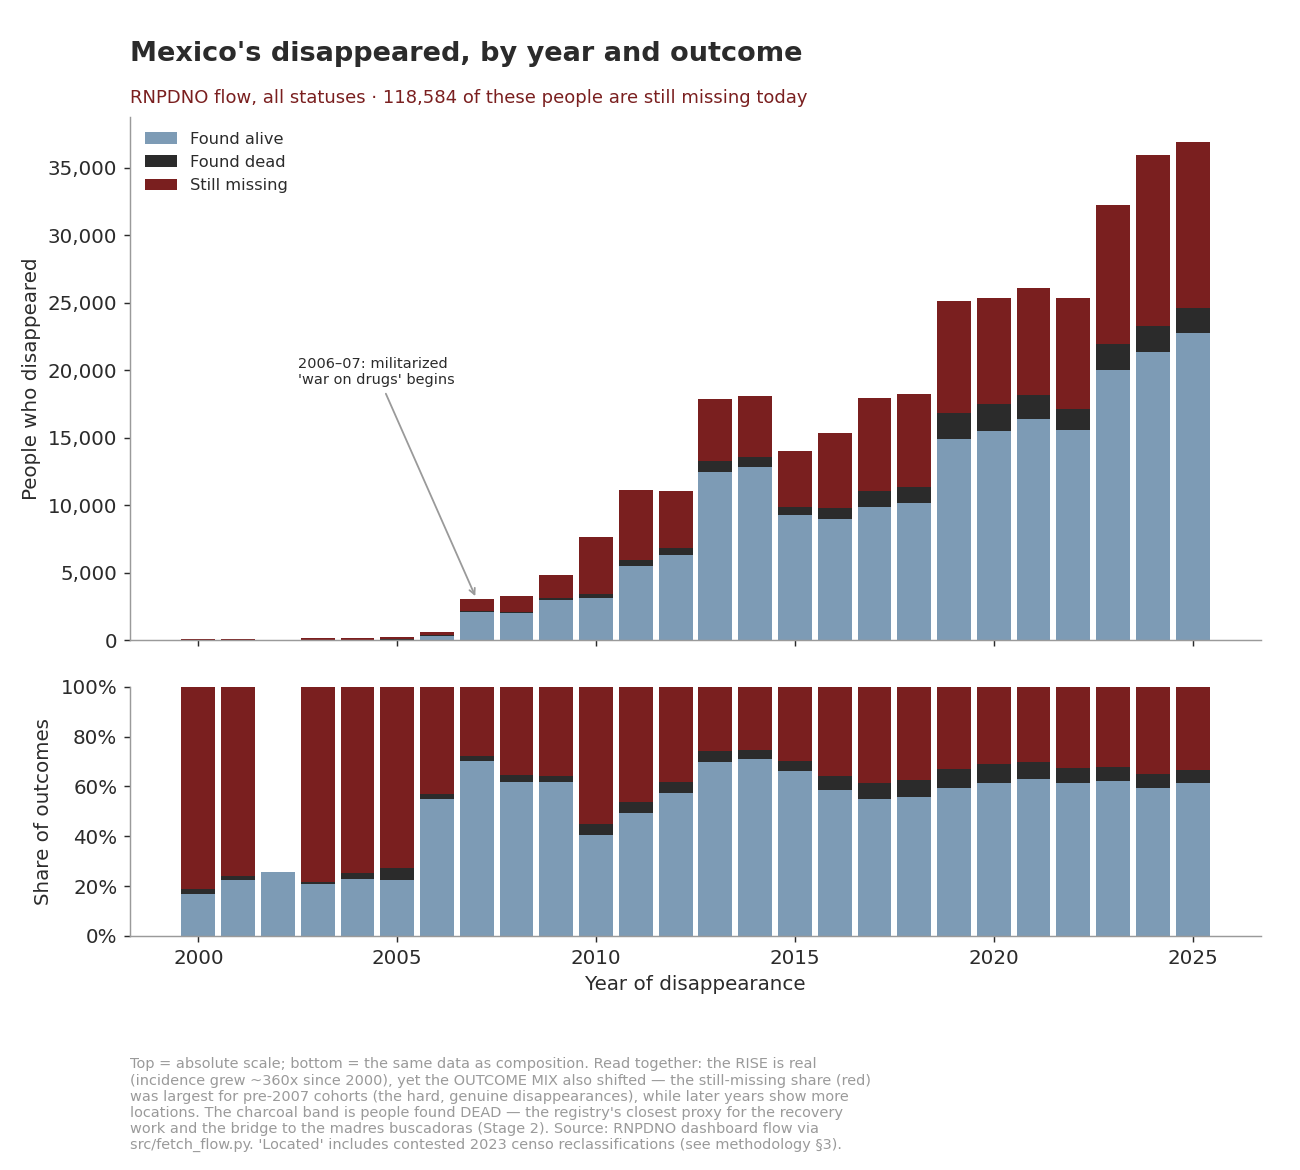
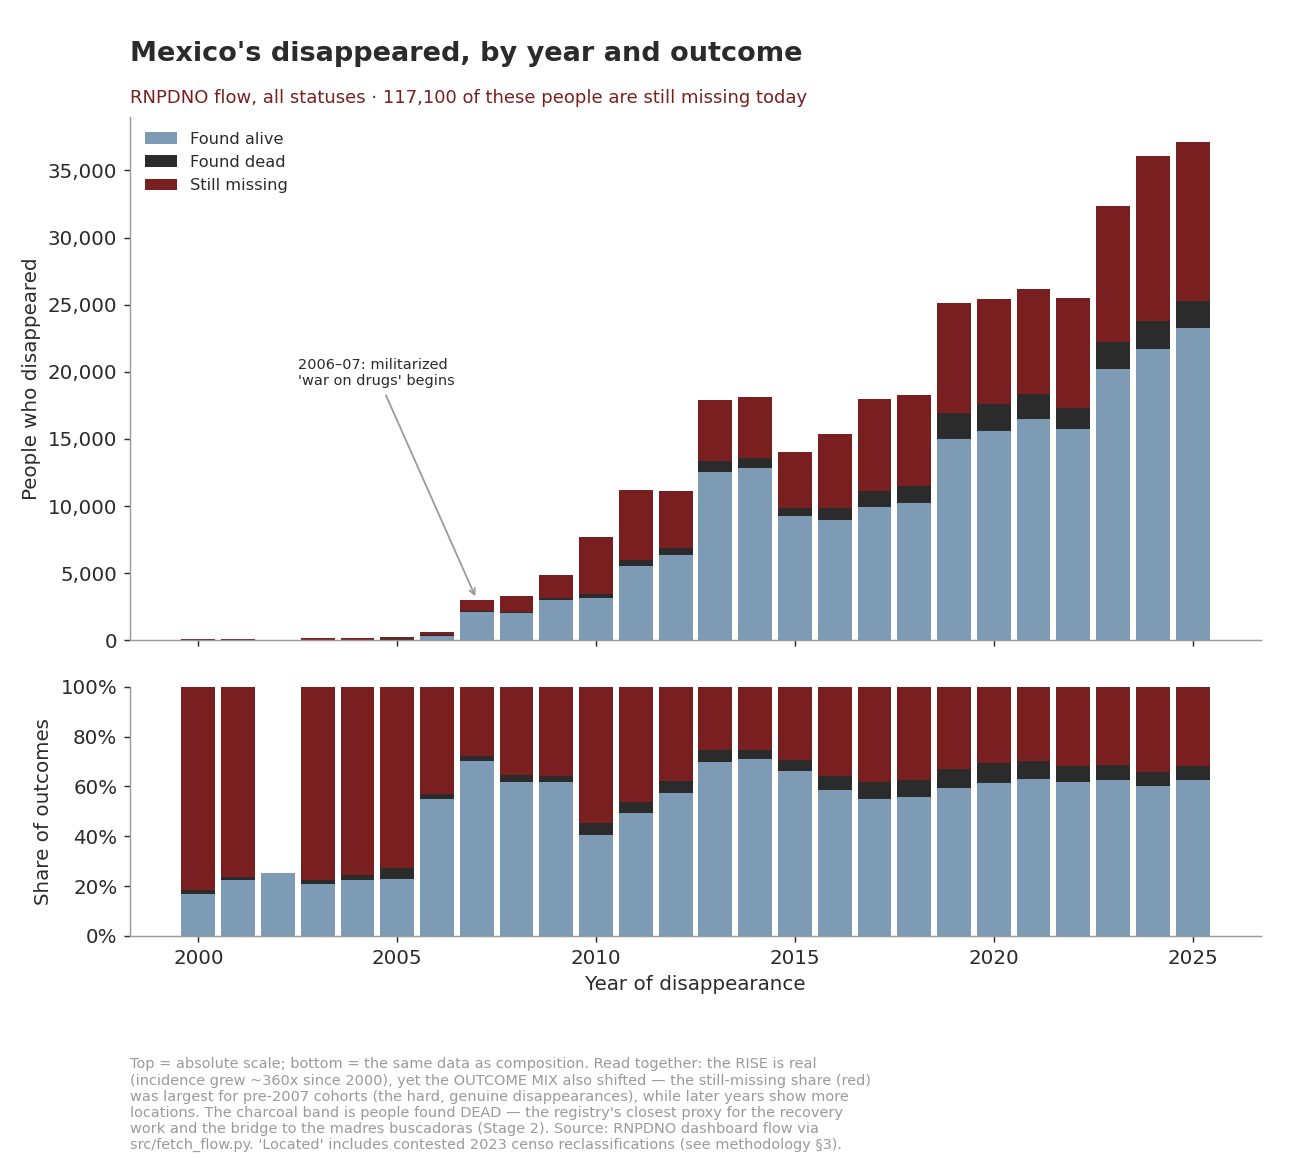
Pre-publication data refresh: live API re-pull + number-by-number diff
Re-pulled every input behind the article draft and diffed all cited figures
against the 2026-06-19 pull / 2025-12-02 microdata snapshot.

Findings (full audit in docs/data-refresh-2026-08-15.md):
- The lapanquecita mirror is FROZEN at 2025-12-02 (last upstream push; monthly
  cadence since Apr 2025 stopped and has not resumed). Local data.csv is
  byte-identical to pinned commit 666b3e7605, so the record-level snapshot we
  hold is the freshest that exists. Stock figures cannot be made fresher.
- Live API refreshed fine: still missing 135,092 -> 134,268; found dead
  22,621 -> 23,483 (+3.8%).
- Fig A window (2000-2025): alive 212,876 -> 214,643, dead 19,920 -> 20,551,
  missing 118,584 -> 117,100.
- All microdata-derived numbers reproduced EXACTLY (133,566 records, 36.8%
  redaction, Jalisco 66.9%, Guerrero 9.1%, Tamaulipas 359.1, the 77%-of-net-
  growth claim). Figs B/C/D/E/G/H rebuilt byte-identical.
- NEW: Ciudad de México shows a second Jalisco-style reversal — climbed
  6,025 -> 7,242 through 2025, then fell to 5,915 by Aug 2026 (-1,327, -18%).
  Not a label-matching artifact. Generalizes the batch-rewriting claim.
- Jalisco rebounding post-recount: 12,776 -> 12,964.

Draft edits:
- §1 caption + body: refreshed band totals, consultation date 2026-08-15.
- §2 caption: labelled to its 2025-12-02 vintage and flagged the CDMX
  divergence, rather than swapping in a live number the map does not show.
[…]

diff --git a/src/jalisco_divergence.py b/src/jalisco_divergence.py
@@ -8,8 +8,10 @@ measured series. Sources (all consulted 2026-07-06):
 - SISOVID (state) 13,976 at 2023-03-31: El Informador 2023-05-09.
 - REPD 15,426 at 2025-02-28 vs RNPDNO 15,015 at 2025-03-13: SinEmbargo / press.
 - REPD 16,064 through end 2025: Grupo Animal (ex Animal Político) verification.
-- RNPDNO 12,776 unresolved at 2026-06-19: our own dashboard-API pull
-  (data/processed/flow_by_state.csv, desap_y_nollocal).
+- RNPDNO 12,776 unresolved at 2026-06-19 and 12,964 at 2026-08-15: our own
+  dashboard-API pulls (data/processed/flow_by_state.csv, desap_y_nollocal).
+  The two federal pulls bracket the post-recount trough: the count is edging
+  back up (+188 in ~8 weeks) while the state registry stays ~3,000 higher.
 Events: CNB oficio 1349/2020 p.11 n.3; Informador/Animal Político (2022 stop);
 Data Cívica (Dec 2023 censo/borrados); Proceso 2024-01-23 (denial); ZonaDocs
 (Teuchitlán 2025-03-05); A dónde van los desaparecidos 2026-01-08 (new recount).
@@ -24,7 +26,8 @@ st.apply()
 C_FED, C_STATE, C_EVENT = st.RED, st.BLUE, st.INK
 
 fed = [(date(2022, 4, 15), 14944), (date(2023, 5, 6), 15012),
-       (date(2025, 3, 13), 15015), (date(2026, 6, 19), 12776)]
+       (date(2025, 3, 13), 15015), (date(2026, 6, 19), 12776),
+       (date(2026, 8, 15), 12964)]
 sta = [(date(2023, 3, 31), 13976), (date(2025, 2, 28), 15426),
        (date(2025, 12, 31), 16064)]
 
@@ -47,8 +50,10 @@ ax.plot(*zip(*fed), color=C_FED, marker="o", ms=7, lw=1.5, ls="--", zorder=3,
 ax.plot(*zip(*sta), color=C_STATE, marker="s", ms=7, lw=1.5, ls="--", zorder=3,
         label="Jalisco state registry (SISOVID/REPD)")
 
-for d, v in fed:
-    ax.annotate(f"{v:,}", (d, v), textcoords="offset points", xytext=(0, -16),
+# the last two federal pulls are only ~8 weeks apart: stagger so labels don't collide
+fed_offsets = [(0, -16)] * (len(fed) - 2) + [(-16, -18), (14, 6)]
+for (d, v), off in zip(fed, fed_offsets):
+    ax.annotate(f"{v:,}", (d, v), textcoords="offset points", xytext=off,
                 ha="center", fontsize=8.5, color=C_FED, weight="bold")
 for d, v in sta:
     ax.annotate(f"{v:,}", (d, v), textcoords="offset points", xytext=(0, 9),
@@ -76,8 +81,8 @@ ax.set_title("One state, two registries: Jalisco's federal and state counts of t
 ax.legend(loc="lower left", frameon=False, fontsize=9)
 ax.text(0, -0.13,
         "Markers are documented snapshots, not a continuous series; registry definitions differ. "
-        "Sources: El Informador (2023-05-09), SinEmbargo (2025), Grupo Animal (2025), RNPDNO API pull "
-        "(2026-06-19). Consulted 2026-07-06.",
+        "Sources: El Informador (2023-05-09), SinEmbargo (2025), Grupo Animal (2025), RNPDNO API pulls "
+        "(2026-06-19 and 2026-08-15). Consulted 2026-08-15.",
         transform=ax.transAxes, fontsize=7.5, color="#666666")
 
 fig.tight_layout()

diff --git a/docs/data-refresh-2026-08-15.md b/docs/data-refresh-2026-08-15.md
@@ -1,0 +1,169 @@
+# Data refresh audit — 2026-08-15
+
+Pre-publication re-pull of every input behind `reports/article_draft.md`, with a
+number-by-number diff against the figures the draft currently cites (pulled
+2026-06-19, microdata snapshot 2025-12-02).
+
+**Verdict: the draft's argument survives intact. Three numeric edits are required,
+one caption is now wrong, and the refresh produced one genuinely new finding
+(Ciudad de México) that strengthens §5b.**
+
+---
+
+## 1. What could and could not be refreshed
+
+| Source | Status | Freshest available |
+|---|---|---|
+| RNPDNO live dashboard API | ✅ refreshed | **2026-08-15** (this pull) |
+| lapanquecita mirror (record-level microdata) | ❌ **frozen** | 2025-12-02 (unchanged) |
+| CNB oficio 1349/2020, ZonaDocs, Tlachinollan, HRW | n/a (documentary) | unchanged |
+
+### The mirror is dead
+`lapanquecita/personas-desaparecidas` last pushed **2025-12-02**. It had updated on
+the 1st–4th of every month from April 2025; that cadence stopped after December and
+has not resumed in eight months. Our local `data.csv` is **byte-identical** (md5
+`69b60ff303e36c244f492097228825de`) to the pinned upstream commit `666b3e7605`, so
+the snapshot we hold is the freshest record-level data that exists from this source.
+
+Consequence: **the stock/redaction figures (C, D, and the 36.8% headline) cannot be
+made fresher.** They are now an 8.5-month-old cross-section carried inside an
+article whose flow figures are current. The methods note must say so explicitly —
+see §5.
+
+---
+
+## 2. National totals — live API, 2026-06-19 → 2026-08-15
+
+| Metric | Jun 2026 | Aug 2026 | Change |
+|---|---:|---:|---:|
+| Total reported (all outcomes) | 403,263 | 407,253 | +3,990 |
+| Still missing | 135,092 | **134,268** | −824 (−0.6%) |
+| Located (all) | 268,171 | 272,985 | +4,814 |
+| Located alive | 245,550 | 249,502 | +3,952 |
+| **Found dead** | 22,621 | **23,483** | **+862 (+3.8%)** |
+
+The still-missing count *fell* while total reports rose — resolution outpaced new
+registrations over the eight weeks.
+
+## 3. Figure A window (2000–2025) — **caption edit required**
+
+| Band | Draft says | Now | Δ |
+|---|---:|---:|---:|
+| Found alive | ~212,900 | **214,643** | +1,767 |
+| Found dead | ~19,900 | **20,551** | +631 |
+| Still missing | ~118,600 | **117,100** | −1,484 |
+| Total reported | "roughly 350,000" | 352,294 | still "roughly 350,000" ✅ |
+
+Structural claims all hold:
+
+- Growth anchors: 2000 = 102 (draft "~100" ✅), 2007 = 3,034 ("~3,000" ✅),
+  2025 = 37,124 ("~37,000" ✅).
+- Resolution inversion holds and **strengthened**: 2000 cohort 18.6% resolved,
+  2005 27.4%, vs 2015 70.5% / 2024 66.0% / 2025 68.1%. The draft's "~16–27% vs
+  ~65–70%" is still accurate.
+
+## 4. Stock figures — **all unchanged** (same microdata)
+
+Every one of these reproduced exactly:
+
+| Claim | Draft | Verified |
+|---|---:|---:|
+| Records | 133,566 | 133,566 ✅ |
+| National redaction | 36.8% | 36.8% ✅ |
+| Jalisco redaction | 67% | 66.9% ✅ |
+| Nayarit redaction | 66% | 66.2% ✅ |
+| Guerrero / Colima | 9% | 9.1% / 9.0% ✅ |
+| Tamaulipas rate | 359 | 359.1 ✅ |
+| Zacatecas / Sinaloa rate | 226 / 211 | 225.8 / 211.3 ✅ |
+| Jalisco n | 13,766 | 13,766 ✅ |
+| Guerrero n | 4,453 | 4,453 ✅ |
+| §4 "one-seventh of its redaction share" | — | 66.9/9.1 = 7.35× ✅ |
+
+Version audit (fig H) also reproduced exactly: confidential 44,035 → 49,136
+(+5,101), share 34.69% → 36.79%, and +5,101 / +6,624 net growth = **77.0%** ✅.
+
+## 5. Snapshot mismatch — the one real vulnerability
+
+National drift between the Dec-2025 microdata and the Aug-2026 live registry is
+**−0.11%** (133,566 vs 133,416 excluding "se desconoce"), which is reassuring. But
+per-state drift is not uniform:
+
+| State | Mirror (Dec 2025) | Live (Aug 2026) | Drift |
+|---|---:|---:|---:|
+| **Ciudad de México** | 7,242 | 5,915 | **−18.3%** |
+| Yucatán | 313 | 378 | +20.8% |
+| Campeche | 148 | 172 | +16.2% |
+| Tabasco | 2,058 | 2,347 | +14.0% |
+| Chiapas | 1,776 | 1,989 | +12.0% |
+| Baja California | 4,660 | 5,167 | +10.9% |
+| Michoacán | 7,234 | 7,992 | +10.5% |
+| Nayarit | 1,990 | 2,190 | +10.1% |
+| **Jalisco** | 13,766 | 12,964 | **−5.8%** |
+| Guerrero | 4,453 | 4,681 | +5.1% |
+
+**§2 needs a numeric edit.** The draft says Estado de México and CDMX "fall to ~80"
+per 100k. EdoMex holds (82.3), but CDMX on live data is now ~64 per 100k, not 79.
+Either re-state as "EdoMex ~82, CDMX ~64" or keep the stock-vintage number and label
+the vintage.
+
+## 6. New finding — Ciudad de México is a second Jalisco
+
+The refresh surfaced a purge the June pull only hinted at:
+
+| Date | CDMX still missing | Source |
+|---|---:|---|
+| 2025-04-03 | 6,025 | mirror panel |
+| 2025-12-02 | **7,242** | mirror panel (+1,217 over 8 months) |
+| 2026-06-19 | 6,086 | live API |
+| 2026-08-15 | **5,915** | live API (−1,327 from peak) |
+
+CDMX climbed steadily all through 2025 — the version audit already flagged it as a
+"steady climb, +1,075" of *confidential* records — and then gave the entire increase
+back and more during the first half of 2026. Raw API labels are unambiguous
+(`CIUDAD DE MEXICO` vs `ESTADO DE MEXICO`), so this is not a matching artifact.
+
+This is the same signature the article documents for Jalisco: a bulk reversal with no
+public log. It is a strong addition to §5b, and it means the batch-rewriting claim is
+not a Jalisco/Tamaulipas peculiarity. **Framing caution:** we have three points
+(Dec/Jun/Aug), not a monthly series, so describe the direction and magnitude, not a
+mechanism — we do not know whether these are deletions, reclassifications, or
+resolutions.
+
+## 7. Jalisco — post-recount rebound
+
+Federal Jalisco went 15,015 (Mar 2025) → 12,776 (Jun 2026) → **12,964** (Aug 2026):
+the count is edging back up after the recount trough while the state registry sits
+~3,000 higher. `src/jalisco_divergence.py` now carries both API points (fig 21 / F
+rebuilt).
+
+---
+
+## Edits required before publishing
+
+1. **§1 fig-A caption** — 212,900/19,900/118,600 → **214,600/20,600/117,100**;
+   change consultation date to 2026-08-15.
+2. **§2** — CDMX "~80" is wrong on live data (~64). Fix the number or label the vintage.
+3. **Methods note** — state the two vintages explicitly: flow/API data 2026-08-15,
+   record-level stock 2025-12-02, and say the mirror stopped updating.
+4. **§5b** — add the CDMX reversal (optional but recommended; it generalizes the claim).
+5. Everything else stands as written.
+
+## Reproduction
+
+```bash
+MPLBACKEND=Agg python src/fetch_flow.py       # live API (this pull: 2026-08-15)
+MPLBACKEND=Agg python src/clean.py            # microdata -> parquet
+MPLBACKEND=Agg python src/rates.py
+MPLBACKEND=Agg python src/category_compare.py
+MPLBACKEND=Agg python src/crosscheck.py
+MPLBACKEND=Agg python src/flow_consolidated.py
+MPLBACKEND=Agg python src/article_figs.py     # A-D
+MPLBACKEND=Agg python src/consent_accounting.py    # E
+MPLBACKEND=Agg python src/jalisco_divergence.py    # F
+MPLBACKEND=Agg python src/two_modes.py             # G
+MPLBACKEND=Agg python src/version_audit.py         # H
+```
+
+Note `src/crosscheck.py` still compares against hand-collected press figures from
+2026-05-27 (national 134,481). Our own API pull is now a better reference
+(134,268 at 2026-08-15, drift −0.5% vs the mirror); worth rewiring before publication.

diff --git a/reports/article_draft.md b/reports/article_draft.md
@@ -1,6 +1,7 @@
 # DRAFT — The Redacted Crisis: How Mexico's Registry of the Disappeared Hides What It Counts
 
-Draft v1, 2026-07-06. Visual-led web article. ~2,800 words + 7 figures.
+Draft v1.1, 2026-08-15 (data refreshed; see `docs/data-refresh-2026-08-15.md`).
+Visual-led web article. ~2,900 words + 8 figures.
 Language: drafted in English; decide EN/ES (or both) before publication — the natural
 home for this piece (and its sources) is Spanish-language.
 Every figure is reproducible from `src/`; every number carries a consultation date in
@@ -23,16 +24,16 @@ ways a person can go missing from the data itself.*
 **[FIG A — `figures/article/A_outcomes_by_year.png`]**
 *Caption: Every year of reported disappearances in Mexico, 2000–2025, decomposed into
 people found alive, found dead, and still missing. Two panels: absolute counts and
-shares. Source: RNPDNO dashboard API, consulted 2026-06-19; ~212,900 found alive, ~19,900
-found dead, ~118,600 still missing across the period.*
+shares. Source: RNPDNO dashboard API, consulted 2026-08-15; ~214,600 found alive, ~20,600
+found dead, ~117,100 still missing across the period.*
 
 Start with the honest version of the number, because almost nobody publishes it.
 Mexico's National Registry of Disappeared and Missing Persons (RNPDNO) is usually
 quoted as a single figure — 132,000+ disappeared. But the registry is a *stock*, not a
 history: it counts people missing *right now*. The fuller accounting, pulled from the
 registry's own API, is that since 2000 roughly 350,000 disappearances have been
-reported; most people were found alive, about 20,000 were found dead, and nearly
-120,000 have never been found.
+reported; most people were found alive, about 20,600 were found dead, and roughly
+117,000 have never been found.
 
 Two things in this chart survive every methodological caveat we could throw at them
 (and we threw several — see methods note):
@@ -47,9 +48,12 @@ Two things in this chart survive every methodological caveat we could throw at t
 ## 2. Where people disappear — once you divide by population
 
 **[FIG B — `figures/article/B_rate_map.png`]**
-*Caption: Unresolved disappearances per 100,000 residents by state. Tamaulipas
-(359), Zacatecas (226) and Sinaloa (211) lead by rate; Estado de México and CDMX,
-the leaders in absolute counts, fall to ~80.*
+*Caption: Unresolved disappearances per 100,000 residents by state, from the
+record-level registry snapshot of 2025-12-02. Tamaulipas (359), Zacatecas (226)
+and Sinaloa (211) lead by rate; Estado de México (82) and CDMX (79), the leaders
+in absolute counts, fall to around 80. Note: on the live registry consulted
+2026-08-15, CDMX's unresolved count has since fallen by ~1,300 (a rate of ~64) —
+see §5b.*
 
 One paragraph of geography, because it sets up the puzzle: the map of disappearance
 is not the map of population. Per-capita, the northeastern corridor and the
@@ -138,6 +142,14 @@ flat all year, then fell by ~1,400 in the last quarter as records left the feder
 registry entirely — months before the new recount was announced. Tabasco deleted a
 third of its records in a single month.
 
+The reversals do not stop at the edge of the panel. Mexico City's unresolved count
+climbed steadily all through 2025, from 6,025 in April to 7,242 in December — and
+then gave the entire increase back. By June 2026 the live registry showed 6,086;
+by August, 5,915. A capital that had been adding cases for a year shed 1,327 of
+them in eight months, roughly one in five. We can see the direction and the size of
+that reversal but not its mechanism: the registry does not say whether those
+records were deleted, reclassified, resolved, or moved.
+
 Step changes, flat totals during reclassifications, batch deletions: these are the
 signatures of administrative operations, not of thousands of families changing
 their minds in the same week. This is the version-history evidence for the claim in
@@ -214,14 +226,27 @@ That is the subject of the next piece.
 
 ## Methods note (publish as expandable box or footer)
 
-Data: RNPDNO public microdata via the [lapanquecita mirror] (133,566 records,
-snapshot 2025-12-02, upstream mirror commit 666b3e7; max FECHA_REGISTRO 2025-12-01), cross-checked against the live RNPDNO dashboard API
-(national drift −0.7%; Jalisco the volatile outlier) and category-sensitivity
-tested (DESAPARECIDA vs +NO LOCALIZADA: national +6.1%). Outcome flows pulled
-directly from the registry API. Redaction-over-time: ten pinned monthly snapshots
-of the mirror (Apr–Dec 2025, upstream commit SHAs in `src/version_audit.py`). All figures reproducible from `src/` in [repo
+Data: this piece draws on **two vintages, and says so deliberately.** Aggregate
+outcome flows (fig A) come from the live RNPDNO dashboard API, consulted
+**2026-08-15**. Everything field-level — redaction shares, per-capita rates, the
+state rankings in figs B, C, D — comes from the registry's public *record-level*
+microdata via the [lapanquecita mirror] (133,566 records, snapshot **2025-12-02**,
+upstream commit 666b3e7; max FECHA_REGISTRO 2025-12-01). The two cannot be
+aligned: the mirror stopped updating after 2025-12-02, having published monthly
+since April 2025, and no comparable record-level extract has been released since.
+The gap is measurable and small — the mirror's national total sits within 0.5% of
+the live registry (0.1% across state-attributable records) — but it is not uniform
+by state, and §5b is in part about exactly that. Where a state's live figure has
+since moved materially (Ciudad de México, Jalisco), we say so in the caption.
+
+Cross-checks: category-sensitivity tested (DESAPARECIDA vs +NO LOCALIZADA:
+national +6.1%, but Zacatecas +42%); Jalisco remains the volatile outlier across
+sources. Redaction-over-time: ten pinned monthly snapshots of the mirror
+(Apr–Dec 2025, upstream commit SHAs in `src/version_audit.py`). All figures
+reproducible from `src/` in [repo
 link]. Confidential records are counted as unresolved people but excluded from any
-field-level analysis. Full methodology: [link docs/methodology.md]. Key primary
+field-level analysis. Full methodology: [link docs/methodology.md]; refresh audit
+and full number-by-number diff: [link docs/data-refresh-2026-08-15.md]. Key primary
 sources: Oficio SEGOB/CNBP/1349/2020; ZonaDocs (2024-11-21); A dónde van los
 desaparecidos (2021-04-08); Data Cívica, Volver a desaparecer; Tlachinollan; HRW
 (2019-01-14). All web sources consulted 2026-07-06 unless noted.
@@ -262,7 +287,9 @@ New figures — ALL BUILT (baseline styling; restyle pass pending):
   → `figures/21_jalisco_registry_divergence.png`. Documented snapshots (markers, not
   a series): federal 14,944 (Apr 2022) → 15,012 (May 2023, i.e. +68 in 13 months
   while the state issued 1,260 bulletins — annotated as "the freeze") → 15,015
-  (Mar 2025) → 12,776 (our API pull, 2026-06-19, after the new federal recount);
+  (Mar 2025) → 12,776 (our API pull, 2026-06-19, after the new federal recount)
+  → 12,964 (second API pull, 2026-08-15: the count is edging back up, +188 in ~8
+  weeks, while the state registry stays ~3,000 higher);
   state 13,976 (SISOVID Mar 2023) → 15,426 (REPD Feb 2025) → 16,064 (end 2025).
   Six event markers 2020–2026. CAVEAT kept in footer: registry definitions differ;
   the 2026 federal drop coincides with the announced recount (A dónde van los
